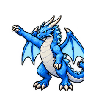
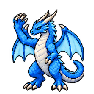
Replace failed claw edits with freshly drawn coherent full-body sequence

diff --git a/design/enemies/dragon_frost/attack_claw/PROMPT.md b/design/enemies/dragon_frost/attack_claw/PROMPT.md
@@ -1,1 +1,1 @@
-Built-in image_gen. Base: ../attack/dragon_frost_1.png. Generate entire coherent ten-frame5x2 transparent sprite sheet of same blue frost dragon, small blue eyes and original detailed pixel-art. Frame1 normal,2 raising,3 raising,4 highest raising,5 downstroke begins,6 downstroke across chest,7 lowest downstroke,8 return early,9 return middle,10 return late near normal. Both forearms visible throughout, including frame7 continuous shoulder-elbow-wrist-claws. Whole character regenerated to match original reference face and proportions; SCREEN-RIGHT forearm attacks in every frame, remains on screen-right of belly; SCREEN-LEFT forearm remains idle and visible in every frame. No arm switching; grounded hindfeet, stable wings and tail. No fire, weapons, slash effects or pasted body parts. Export ten94x94 transparent PNGs in numeric order. Correction: frames1-4 retained. Frames5-10 derive same arm from frame4 with uniform shorter reach and continuous shoulder rotation; palm/forearm rigidly aligned. Generated trials rejected for limb switching. Planted feet baseline y91 in every frame, stable hips and head, original narrow blue-eyed face, frame10 is distinct late recovery, frame1 completes return. Preview frame delays(ms): 180,120,120,140,80,80,80,120,120,120.
+Built-in image_gen. Base: ../attack/dragon_frost_1.png. Generate entire coherent ten-frame5x2 transparent sprite sheet of same blue frost dragon, small blue eyes and original detailed pixel-art. Frame1 normal,2 raising,3 raising,4 highest raising,5 downstroke begins,6 downstroke across chest,7 lowest downstroke,8 return early,9 return middle,10 return late near normal. Both forearms visible throughout, including frame7 continuous shoulder-elbow-wrist-claws. Whole character regenerated to match original reference face and proportions; Fresh full-body generation from original reference. SCREEN-LEFT forearm attacks throughout, idle SCREEN-RIGHT arm stays beside thigh. Frame8 uses same full-body bent-elbow pose as frame2 to preserve shoulder continuity, then9-10 settle to side. No rotated/scaled arm patches; grounded hindfeet, stable wings and tail. No fire, weapons, slash effects or pasted body parts. Export ten94x94 transparent PNGs in numeric order. Correction: planted feet baseline y91 in every frame, stable hips and head, original narrow blue-eyed face, frame10 is distinct late recovery, frame1 completes return. Preview frame delays(ms): 180,120,120,140,80,80,80,120,120,120.
